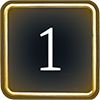
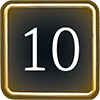
adwad

Changed region(s): [[0.21, 0.24, 0.81, 0.72]]

diff --git a/4th_Project/SkillButton.cpp b/4th_Project/SkillButton.cpp
@@ -79,9 +79,10 @@ void SkillButton::ChangeState(gbState _state)
 void SkillButton::OnClick()
 {
 	
-	if (curState == gbState::On)
+	if (curState == gbState::On && PLAYER->OnSkill == false)
 	{
 		PLAYER->skillPoint -= cost;
+		PLAYER->OnSkill = true;
 		clickFunc();
 	}
 }
